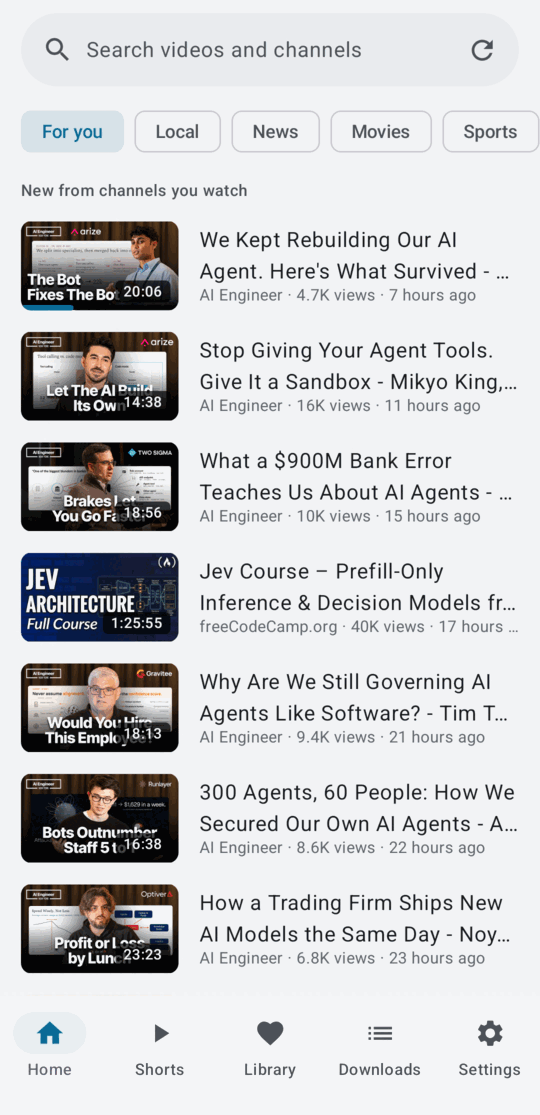
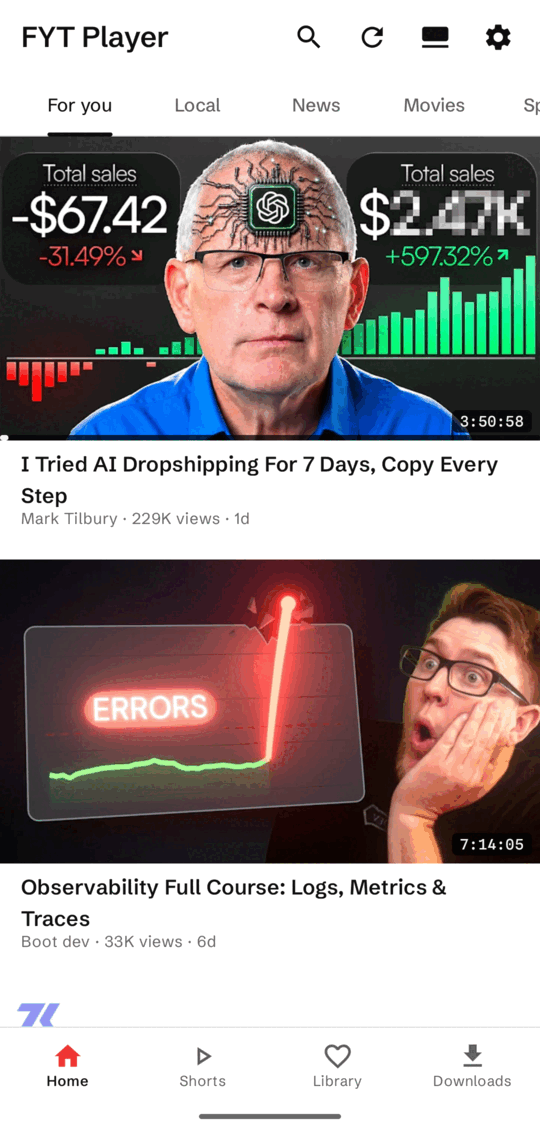
docs: new README screenshots

diff --git a/README.md b/README.md
@@ -15,17 +15,17 @@
 </p>
 
 <p align="center">
-  <img src="docs/images/screenshot-home.png" alt="Home feed" width="23%">
-  <img src="docs/images/screenshot-video.png" alt="Video page with icon action row" width="23%">
-  <img src="docs/images/screenshot-chapters.png" alt="Description tab with the chapter list" width="23%">
-  <img src="docs/images/screenshot-channel-shorts.png" alt="Channel Shorts tab as a portrait grid" width="23%">
+  <img src="docs/images/screenshot-home.png" alt="Home feed as full-width cards" width="23%">
+  <img src="docs/images/screenshot-grid.png" alt="Home feed as a two-column grid" width="23%">
+  <img src="docs/images/screenshot-video.png" alt="Video page with channel row and action icons" width="23%">
+  <img src="docs/images/screenshot-quality.png" alt="Quality sheet over the playing video" width="23%">
 </p>
 
 <p align="center">
-  <img src="docs/images/screenshot-captions.png" alt="Video playing with English captions" width="23%">
-  <img src="docs/images/screenshot-caption-list.png" alt="Caption language picker" width="23%">
-  <img src="docs/images/screenshot-speed.png" alt="Playback speed sheet, 0.1x to 3x" width="23%">
-  <img src="docs/images/screenshot-settings.png" alt="Settings" width="23%">
+  <img src="docs/images/screenshot-history.png" alt="History grouped by day, with a day selected" width="23%">
+  <img src="docs/images/screenshot-downloads.png" alt="Downloads with a play-all button" width="23%">
+  <img src="docs/images/screenshot-shorts.png" alt="Shorts as a portrait grid" width="23%">
+  <img src="docs/images/screenshot-settings.png" alt="Settings with coloured section icons" width="23%">
 </p>
 
 FYT Player is a single-Activity app written in Kotlin with Jetpack Compose. It opens YouTube
